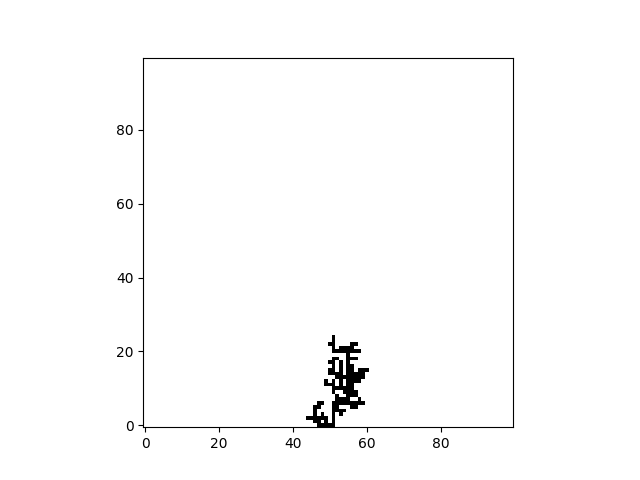
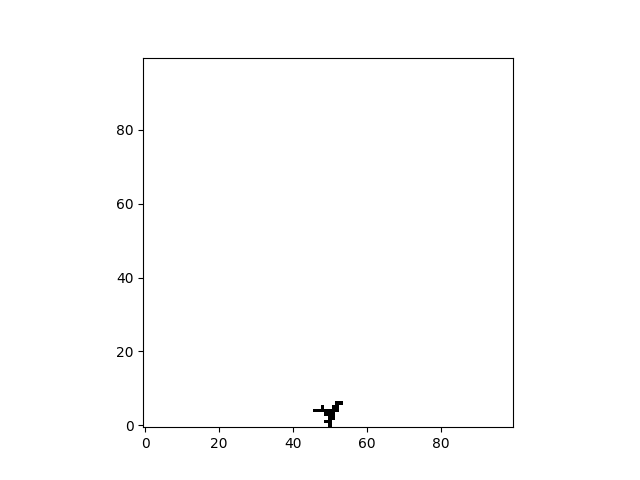
error bars

Changed region(s): [[0.4688, 0.6875, 0.5938, 0.9062]]

diff --git a/Assignment2/assignment_2_2.py b/Assignment2/assignment_2_2.py
@@ -93,9 +93,10 @@ for ps in ps_list:
     cluster_init = np.zeros((Nx,Ny), dtype=bool)
     mid = int(Nx / 2)
     cluster_init[0, mid] = 1
-    cluster, cluster_over_time, num_cluster = mc_DLA(cluster_init, 50000, ps, False)
+    cluster, cluster_over_time, num_cluster = mc_DLA(cluster_init, 15000, ps, False)
     plt.imshow(cluster, origin='lower', cmap='binary')
     plt.savefig(f"Figures/2.2/run_ps={ps}.png")
+    plt.close()
     print(f'ps run {ps} is domne')
     #plt.show()
     total_cluster.append(num_cluster[-1])
@@ -108,6 +109,8 @@ mult_cluster = []
 mult_cluster_temp = []
 total_cluster = []
 all_counts = []
+total_stds = []
+mult_cluster_std = []
 for ps in ps_list:
     for i in range(10):
         cluster_init = np.zeros((Nx,Ny), dtype=bool)
@@ -118,12 +121,25 @@ for ps in ps_list:
         print(f'at ps: {ps}, in run {i}')
     mult_cluster_temp = np.array(all_counts)
     avg = np.mean(mult_cluster_temp, axis=0)
+    std = np.std(mult_cluster_temp, axis=0)
     mult_cluster.append(avg.copy())
+    mult_cluster_std.append(std.copy())
     total_cluster.append(avg[-1])
-    mult_cluster_temp, all_counts, avg = [], [], []
+    total_stds.append(std[-1])
+    mult_cluster_temp, all_counts, avg, std = [], [], [], []
         
 for c in range(len(mult_cluster)):
+    mean = mult_cluster[c]
+    std = mult_cluster_std[c]
     plt.plot(mult_cluster[c], color=cmap(c), label=f'ps = {ps_list[c]}')
+    plt.fill_between(
+        range(len(mean)),
+        mean - std,
+        mean + std,
+        color=cmap(c),
+        alpha=0.2
+    )
+
 plt.ylabel('size of cluster')
 plt.xlabel('walker count')
 plt.legend()
@@ -131,6 +147,7 @@ plt.savefig(f"Figures/2.2/ps_list_runs.png")
 plt.show()
 
 plt.plot(ps_list, total_cluster)
+plt.errorbar(ps_list, total_cluster, yerr=total_stds, fmt='o-', capsize=5)
 plt.ylabel('size of cluster')
 plt.xlabel('ps')
 plt.savefig(f"Figures/2.2/ps_vs_total_cluster.png")
